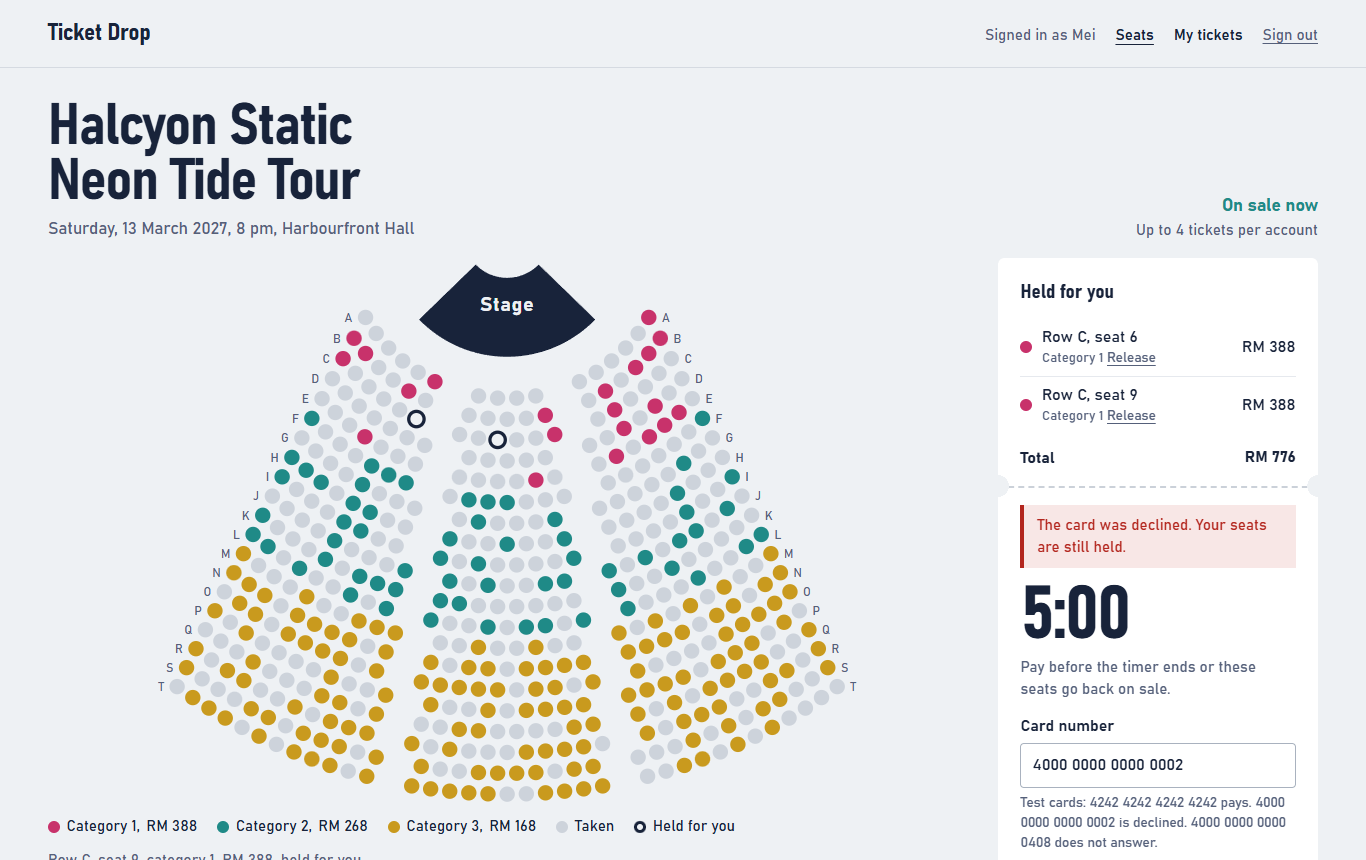
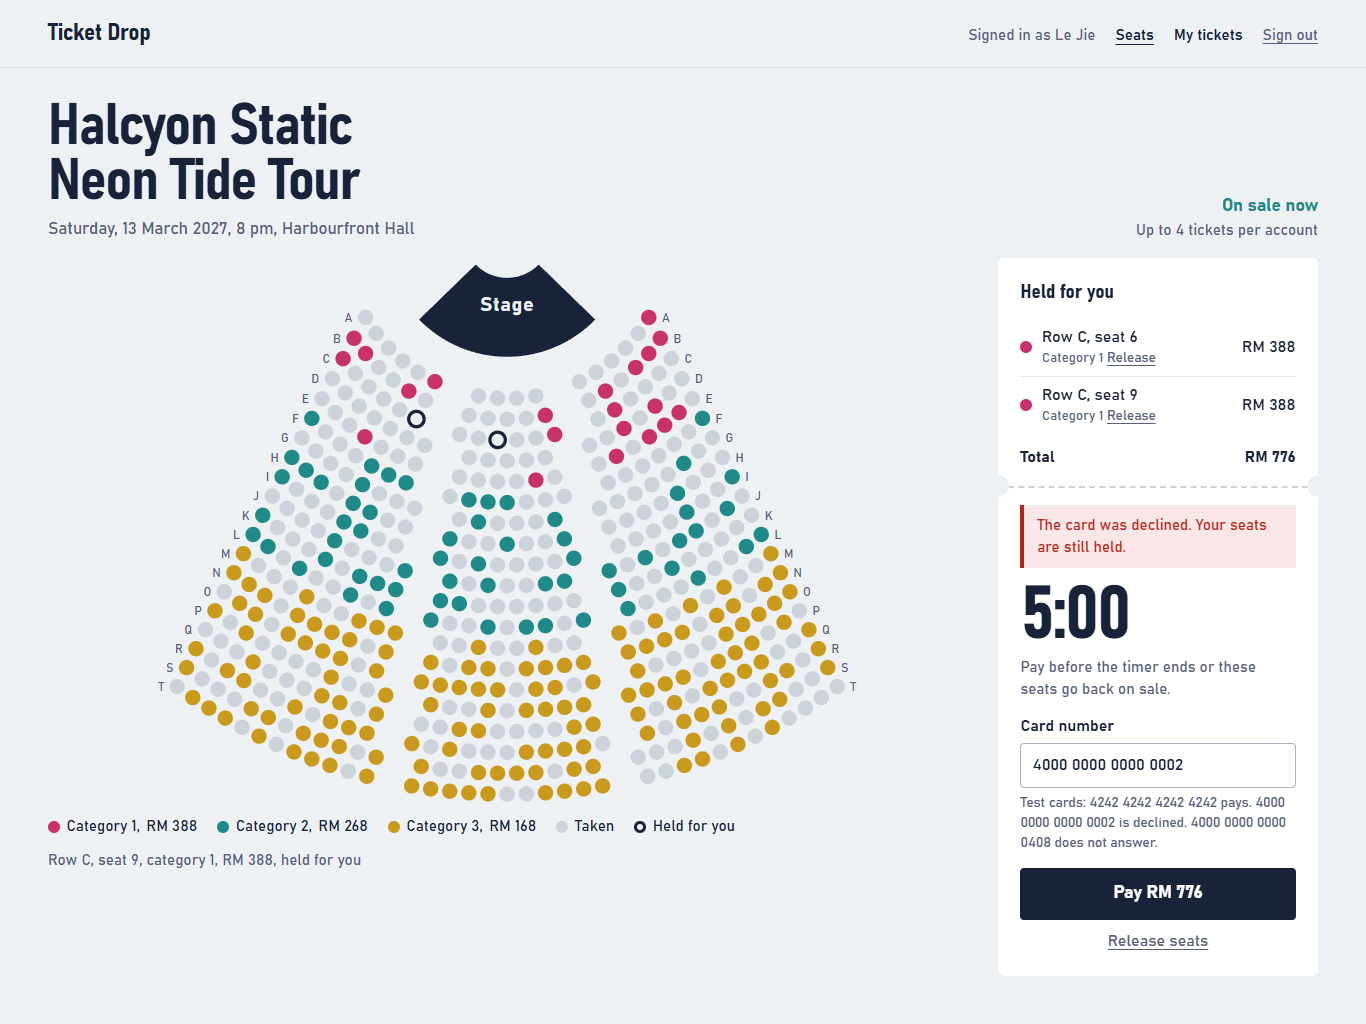
docs: capture full-page screenshots signed in as Le Jie
The 860 px viewport cut off the legend and the Release button; desktop captures are now full page.

diff --git a/tools/capture_screenshots.py b/tools/capture_screenshots.py
@@ -22,7 +22,7 @@ from tests.support import live_server  # noqa: E402
 OUT = ROOT / "docs" / "screenshots"
 
 
-def sign_in(page, url, username="mei"):
+def sign_in(page, url, username="lejie"):
     page.goto(url)
     page.get_by_label("Username").fill(username)
     page.get_by_label("Password").fill("demo-pass")
@@ -48,8 +48,8 @@ def main() -> int:
             desk = browser.new_page(viewport={"width": 1366, "height": 860}, device_scale_factor=1)
 
             desk.goto(server.url)
-            desk.get_by_label("Username").fill("mei")
-            desk.screenshot(path=OUT / "sign-in.png")
+            desk.get_by_label("Username").fill("lejie")
+            desk.screenshot(path=OUT / "sign-in.png", full_page=True)
 
             sign_in(desk, server.url)
             row_c = [f"C-{n:02d}" for n in range(6, 14)]
@@ -61,22 +61,22 @@ def main() -> int:
             expect(desk.locator(f'[data-seat="{b}"]')).to_have_attribute("data-state", "mine")
             desk.mouse.move(5, 5)
             desk.get_by_label("Card number").fill("4242 4242 4242 4242")
-            desk.screenshot(path=OUT / "seat-map-hold.png")
+            desk.screenshot(path=OUT / "seat-map-hold.png", full_page=True)
 
             desk.get_by_label("Card number").fill("4000 0000 0000 0002")
             desk.locator("#pay").click()
             expect(desk.locator("#notice")).to_be_visible()
-            desk.screenshot(path=OUT / "payment-declined.png")
+            desk.screenshot(path=OUT / "payment-declined.png", full_page=True)
 
             taken = desk.evaluate("[...document.querySelectorAll('[data-state=taken]')].map(e => e.dataset.seat)")
             desk.locator(f'[data-seat="{taken[0]}"]').click()
             expect(desk.locator("#mapError")).to_be_visible()
-            desk.screenshot(path=OUT / "seat-taken-message.png")
+            desk.screenshot(path=OUT / "seat-taken-message.png", full_page=True)
 
             desk.get_by_label("Card number").fill("4242 4242 4242 4242")
             desk.locator("#pay").click()
             expect(desk.get_by_role("heading", name="My tickets")).to_be_visible()
-            desk.screenshot(path=OUT / "my-tickets.png")
+            desk.screenshot(path=OUT / "my-tickets.png", full_page=True)
 
             phone = browser.new_page(viewport={"width": 390, "height": 844}, device_scale_factor=2,
                                      is_mobile=True, has_touch=True)
@@ -99,7 +99,7 @@ def main() -> int:
             page.locator('[data-seat="A-05"]').click()
             expect(page.locator("#mapError")).to_be_visible()
             page.mouse.move(5, 5)
-            page.screenshot(path=OUT / "before-sale-opens.png")
+            page.screenshot(path=OUT / "before-sale-opens.png", full_page=True)
             browser.close()
     finally:
         live_server.stop(closed)
